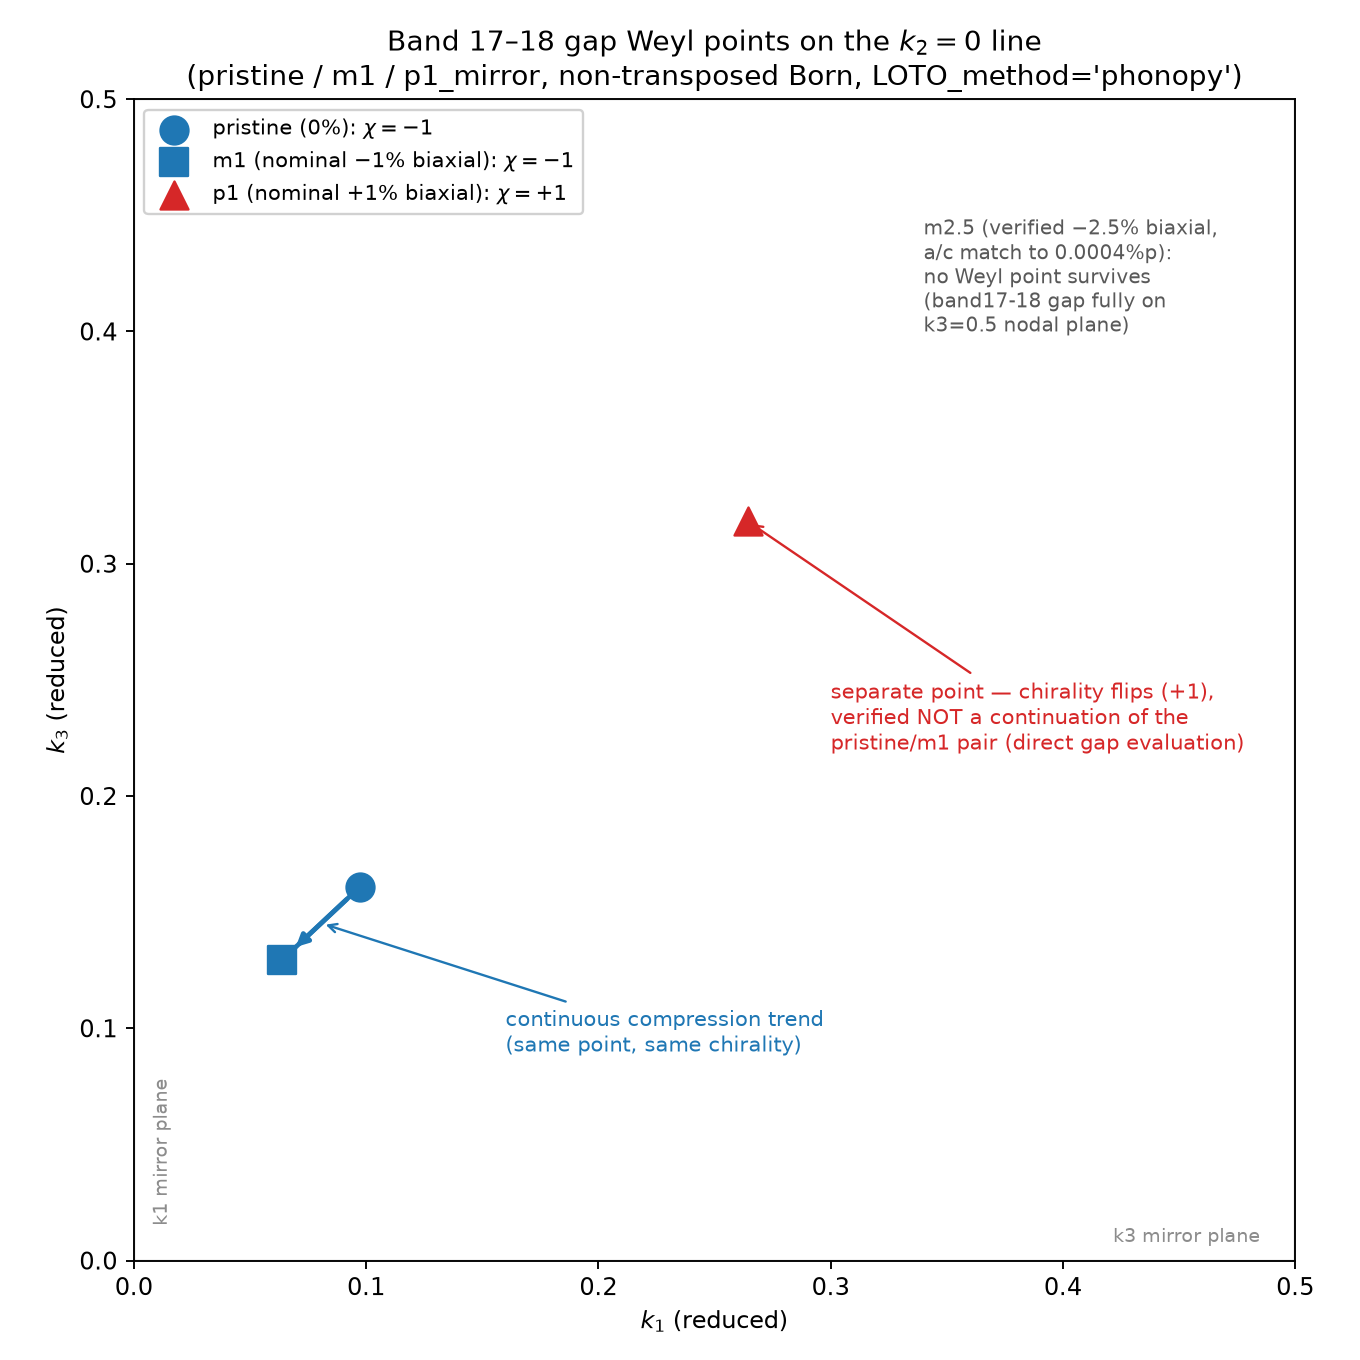
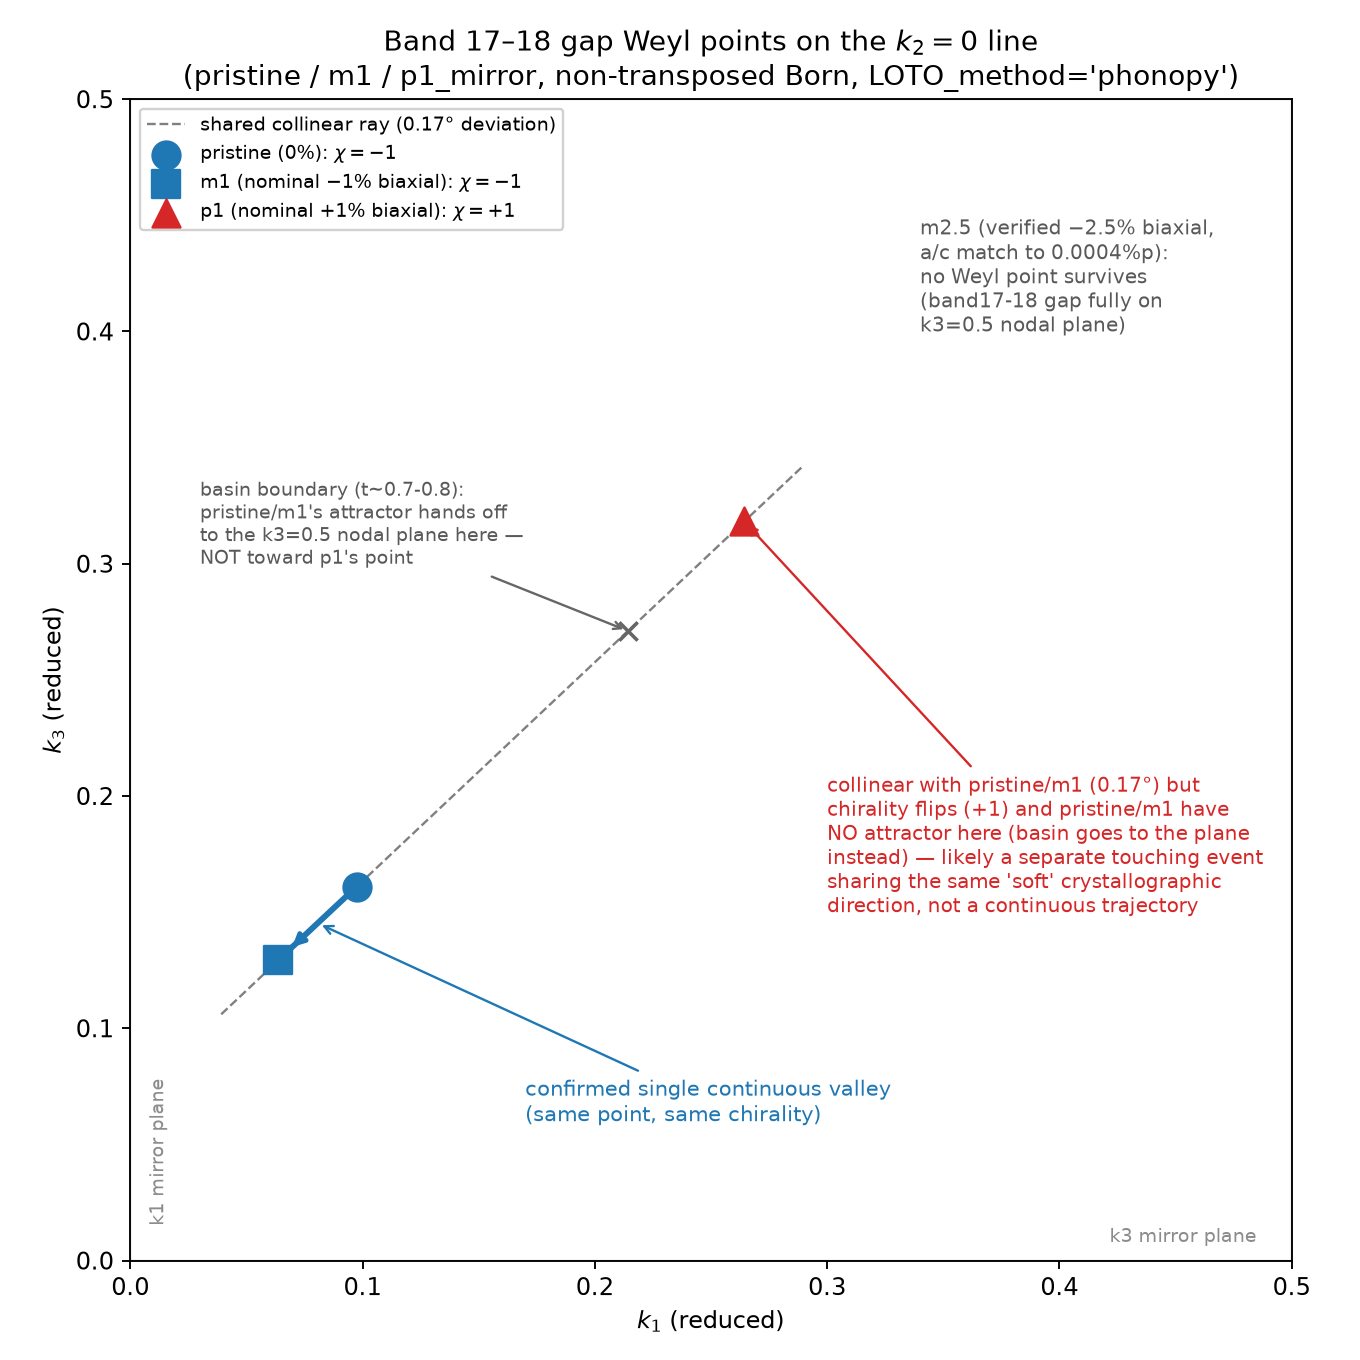
Correct Weyl trend analysis: retract "unrelated point" claim, rule out simple switching
Direct along-line and 3D basin-of-attraction scans show pristine/m1/p1's
band17-18 candidates are collinear to 0.17 deg, and pristine/m1's own
gap-minimum along that line sits exactly at their own point (not a naive
coincidence). But free 3D refine seeded past t~0.7 on that line converges
to the already-known k3=0.5 nodal plane, not toward p1's point -- pristine
and m1 have no attractor there at all. A finer 81-point line scan also
rules out a coexisting second dip (no simple two-feature "switching").
Neighboring bands (16,19) stay well-gapped along the whole line, ruling
out band relabeling too.

Net: the chirality flip (-1 -> +1) between pristine/m1 and p1 has no
visible continuous connection or double-dip switching signature. Best
interpretation: this ray is a shared "soft" direction for bands 17-18
(also connected to the known nodal plane), hosting topologically distinct
touching events at different strains -- not a single continuously-moving
Weyl point. Resolving this needs an intermediate-strain DFT point.

Claude-Session: https://claude.ai/code/session_016KadJUTSV3nBHHj1NDTMTh

diff --git a/scripts/plot_weyl_trend.py b/scripts/plot_weyl_trend.py
@@ -19,12 +19,27 @@ for v in (0.0, 0.5):
 ax.text(0.008, 0.015, "k1 mirror plane", color="0.55", fontsize=8, rotation=90, va="bottom")
 ax.text(0.485, 0.008, "k3 mirror plane", color="0.55", fontsize=8, ha="right")
 
-# continuous trend: pristine -> m1 (chirality -1, compression)
+# shared collinear ray: pristine, m1, p1 all fall on this line (0.17 deg deviation)
+pr = np.array(pristine); p1v = np.array(p1)
+direction = p1v - pr
+line_pts = np.array([pr + t*direction for t in np.linspace(-0.35, 1.15, 2)])
+ax.plot(line_pts[:, 0], line_pts[:, 1], "--", color="0.5", lw=1, zorder=1,
+        label="shared collinear ray (0.17° deviation)")
+
+# confirmed single continuous valley: pristine -> m1 (chirality -1, compression)
 xs = [pristine[0], m1[0]]
 ys = [pristine[1], m1[1]]
-ax.plot(xs, ys, "-", color="tab:blue", lw=2, zorder=2)
+ax.plot(xs, ys, "-", color="tab:blue", lw=2.5, zorder=2)
 ax.annotate("", xy=m1, xytext=pristine,
             arrowprops=dict(arrowstyle="-|>", color="tab:blue", lw=2, shrinkA=8, shrinkB=8))
+
+# basin boundary along the ray where pristine/m1's own attractor hands off
+# to the (unrelated) k3=0.5 nodal plane, instead of continuing toward p1
+boundary = pr + 0.7*direction
+ax.scatter(*boundary, s=60, color="0.4", marker="x", zorder=4)
+ax.annotate("basin boundary (t~0.7-0.8):\npristine/m1's attractor hands off\nto the k3=0.5 nodal plane here —\nNOT toward p1's point",
+            xy=boundary, xytext=(0.03, 0.30), fontsize=8, color="0.35",
+            arrowprops=dict(arrowstyle="->", color="0.4", lw=1))
 
 ax.scatter(*pristine, s=140, color="tab:blue", zorder=3, marker="o",
            label=r"pristine (0%): $\chi=-1$")
@@ -33,13 +48,13 @@ ax.scatter(*m1, s=140, color="tab:blue", zorder=3, marker="s",
 ax.scatter(*p1, s=140, color="tab:red", zorder=3, marker="^",
            label=r"p1 (nominal $+1\%$ biaxial): $\chi=+1$")
 
-ax.annotate("continuous compression trend\n(same point, same chirality)",
+ax.annotate("confirmed single continuous valley\n(same point, same chirality)",
             xy=((pristine[0]+m1[0])/2, (pristine[1]+m1[1])/2),
-            xytext=(0.16, 0.09), fontsize=9, color="tab:blue",
+            xytext=(0.17, 0.06), fontsize=9, color="tab:blue",
             arrowprops=dict(arrowstyle="->", color="tab:blue", lw=1))
 
-ax.annotate("separate point — chirality flips (+1),\nverified NOT a continuation of the\npristine/m1 pair (direct gap evaluation)",
-            xy=p1, xytext=(0.30, 0.22), fontsize=9, color="tab:red",
+ax.annotate("collinear with pristine/m1 (0.17°) but\nchirality flips (+1) and pristine/m1 have\nNO attractor here (basin goes to the plane\ninstead) — likely a separate touching event\nsharing the same 'soft' crystallographic\ndirection, not a continuous trajectory",
+            xy=p1, xytext=(0.30, 0.15), fontsize=8.5, color="tab:red",
             arrowprops=dict(arrowstyle="->", color="tab:red", lw=1))
 
 ax.annotate("m2.5 (verified $-2.5\\%$ biaxial,\na/c match to 0.0004%p):\nno Weyl point survives\n(band17-18 gap fully on\nk3=0.5 nodal plane)",
@@ -51,8 +66,8 @@ ax.set_ylim(0, 0.5)
 ax.set_xlabel(r"$k_1$ (reduced)")
 ax.set_ylabel(r"$k_3$ (reduced)")
 ax.set_title("Band 17–18 gap Weyl points on the $k_2=0$ line\n(pristine / m1 / p1_mirror, non-transposed Born, LOTO_method='phonopy')")
-ax.legend(loc="upper left", fontsize=9, framealpha=0.9)
+ax.legend(loc="upper left", fontsize=8, framealpha=0.9)
 ax.set_aspect("equal")
 fig.tight_layout()
-fig.savefig("/tmp/claude-0/-home-user-HfO2-Orthorhombic-Polar-Project/c2573bf3-53de-56be-b0b9-1d949d54780e/scratchpad/weyl_trend_k2eq0.png", dpi=170)
+fig.savefig("results/weyl_trend/weyl_trend_k2eq0.png", dpi=170)
 print("done")

diff --git a/results/weyl_trend/SUMMARY.md b/results/weyl_trend/SUMMARY.md
@@ -22,14 +22,34 @@ strain되지 않은 경우가 있어 실측값을 병기한다. b(또는 해당 
 제공)의 relax 조건이 pristine/m1/p1과 m2.5 사이에 달랐을 가능성이 있어, m1·p1 계열을
 "단일 biaxial strain 축 위의 점들"로 취급해 외삽/추세 해석을 하는 것은 근거가 약하다.
 
-## 플롯이 보여주는 것
+## 플롯이 보여주는 것 (정정됨 — 최초 판단 철회)
 
-- **pristine → m1 (파란 실선)**: 같은 물리적 Weyl point가 압축에 따라 Γ 쪽으로 연속적으로
-  이동 (χ=−1로 동일 부호 유지, 직접 대조로 확인됨). 이 방향으로 더 압축하면 이미 확인된
-  대로 m2.5 근방에서 소멸한다.
-- **p1의 점 (빨간 삼각형)**: pristine/m1 pair와 **무관한 별개의 점** (χ=+1로 부호가 다르고,
-  pristine/m1 좌표에서 직접 계산한 gap이 각각 0.245, 0.301 THz로 열려 있어 연속된 점이
-  아님을 확인함). 인장 쪽에서 나타난 것으로 보이나, 정확한 발생 strain은 추가 계산 없이는
-  모른다.
+최초에는 "pristine/m1 좌표에서 p1의 gap을 평가하면 열려있다"는 것만 보고 p1의 점을
+무관한 별개의 점으로 판단했으나, 이후 세 점이 (k1,k3) 평면에서 **각도차 0.17°로 거의
+완전히 공선**이라는 걸 발견해 재검증했다. 결론은 "연속 이동"도 "무관한 점"도 아닌
+중간적인 그림이다.
+
+- **위치는 공선이며, 압축측(m1,pristine)에서는 이 직선 위 gap 최소점이 자기 자신의
+  Weyl point에서 정확히 나온다** (m1: t=−0.20, pristine: t=0.00 — 직선을 매개변수화해
+  각 구조 자신의 해밀토니안으로 스캔해서 확인).
+- **하지만 3차원 자유탐색(제약 없는 refine)으로 확인한 결과, pristine·m1의 실제 지형에는
+  p1 위치(t≈1) 근방에 별도의 attractor가 전혀 없다.** t≤0.6에서 출발한 탐색은 전부
+  자기 자신의 점으로, t≥0.8에서 출발한 탐색은 전부 (선에서 0.05~0.09 벗어나) 이미 알려진
+  k3=0.5 대칭보호 nodal plane으로 수렴한다 — 즉 그 영역은 p1점의 "희미한 전조"가 아니라
+  그냥 nodal plane 쪽으로 흘러드는 비탈이다.
+- **직선을 따라 촘촘히(81점) 다시 스캔해도 이중 dip은 없다** — 두 개의 독립적 특징이
+  공존하며 우세가 바뀌는 형태의 "스위칭"도 아니다.
+- **인접 밴드(16-17, 18-19 gap)도 이 직선 위에서 계속 크게 열려 있어(0.13~0.92 THz),
+  다른 밴드가 끼어들며 band17/18 라벨이 바뀐 것도 아니다.**
+- 종합하면: **chirality가 −1(m1,pristine) → +1(p1)로 바뀌는데 위상수 보존 원리상 이는
+  중간에 반드시 소멸-재생성 사건이 있어야 하지만, 그 흔적이 이 직선 위/부근에는 없다.**
+  가장 그럴듯한 해석은 이 특정 결정학적 방향이 band17-18에 유독 "무른"(near-degenerate)
+  방향이라 — 이미 알려진 k3=0.5 nodal plane도 같은 방향과 연결돼 있다 — 서로 다른
+  strain에서 서로 다른(위상학적으로 무관한) 근접축퇴 사건이 우연히 같은 방향에 걸린
+  것으로 보인다는 것. 우연한 좌표 일치는 아니지만(공유하는 구조적 이유가 있음), 단일
+  Weyl point의 연속 궤적도 아니다.
+- **이걸 확정하려면 pristine와 p1 사이의 중간 strain DFT 데이터가 필요하다** — 그 중간
+  지점에서 gap이 완전히 닫히는지(생성 사건), 그냥 커지기만 하는지(소멸 후 재생성),
+  아니면 이 직선을 벗어난 어딘가에서 거울면에 닿는지를 직접 확인해야 한다.
 - **m2.5 (주석)**: 참고용 — band17-18 gap에서 Weyl point가 전혀 남지 않고, k3=0.5 nodal
   plane(대칭보호, χ=0)만 존재.
